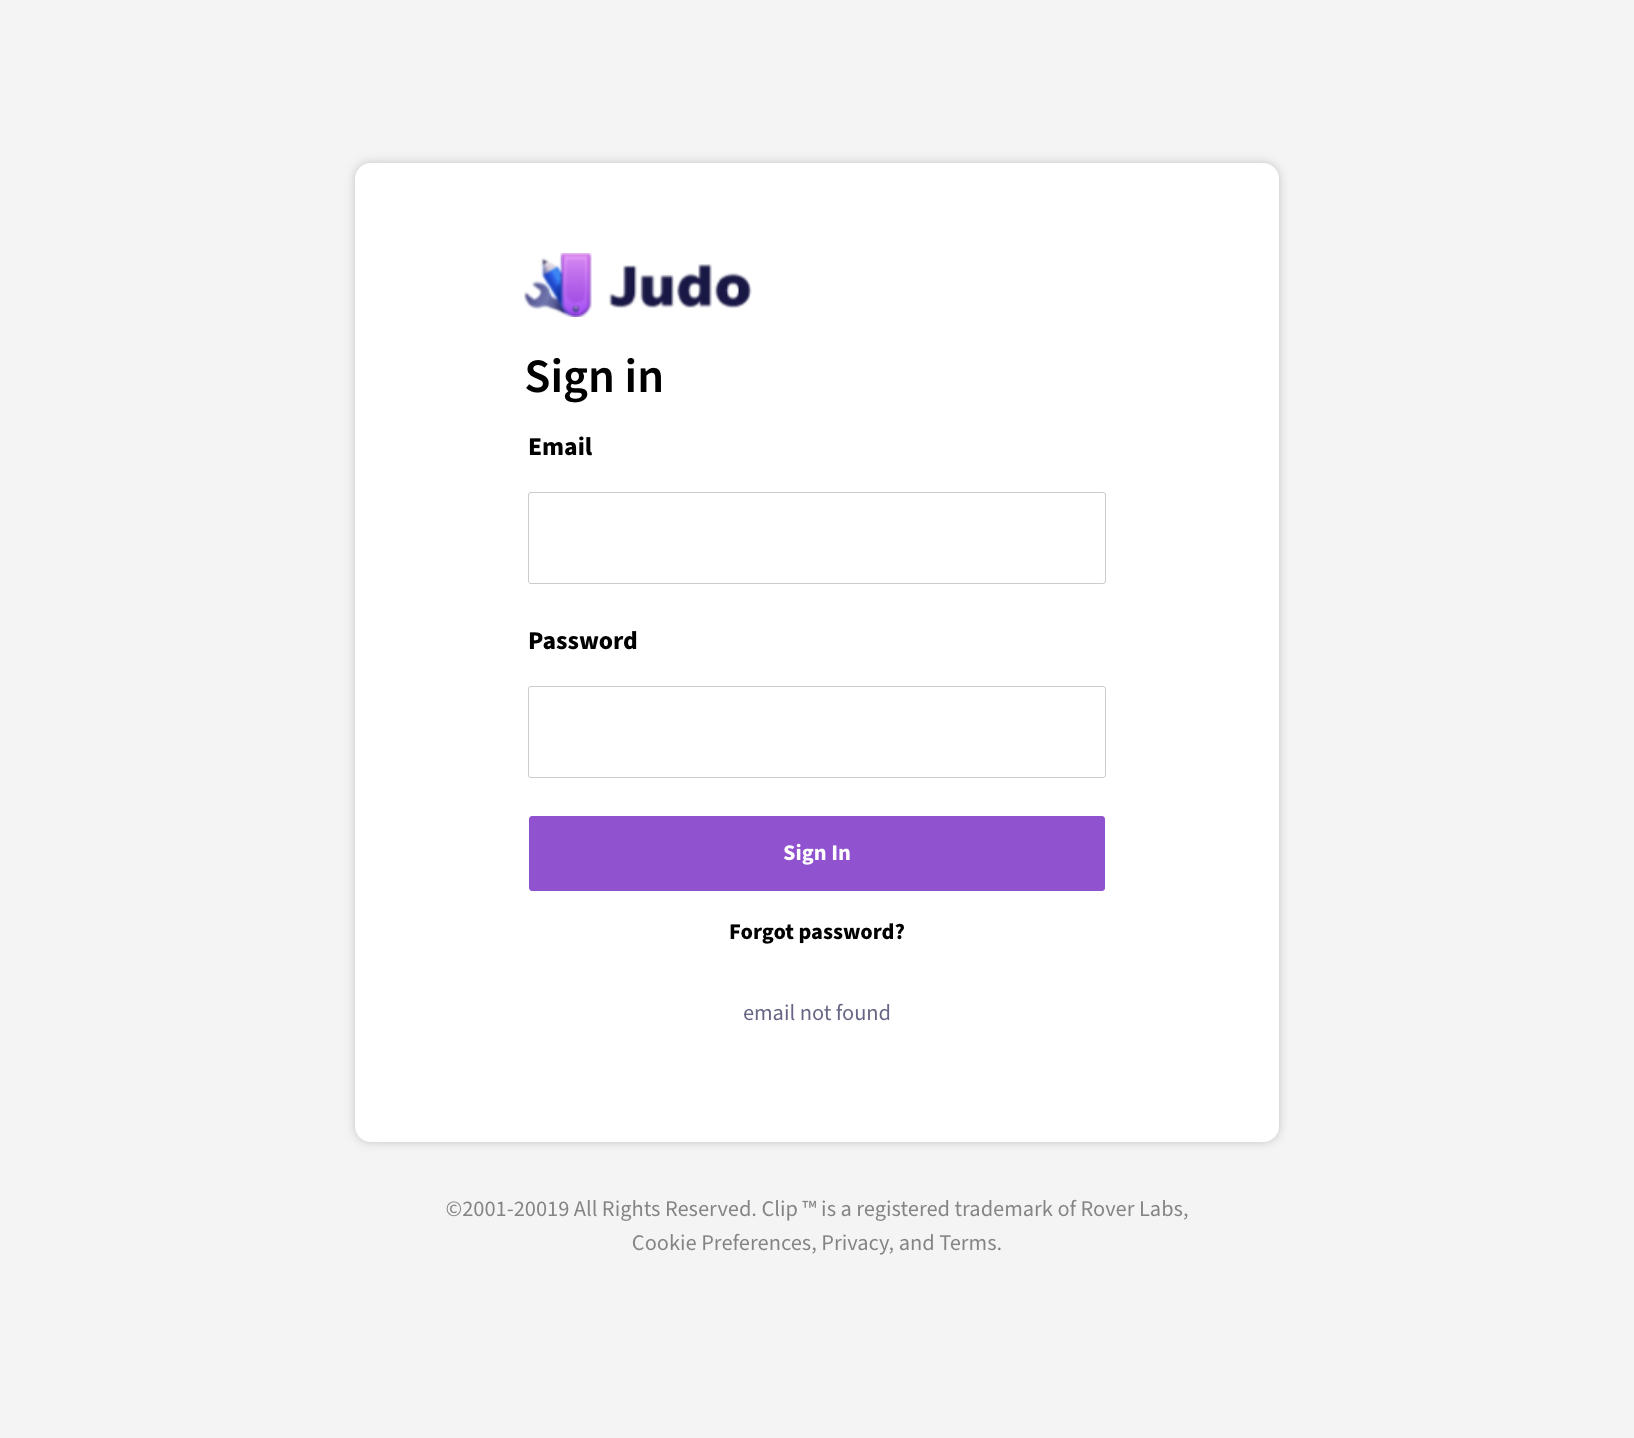
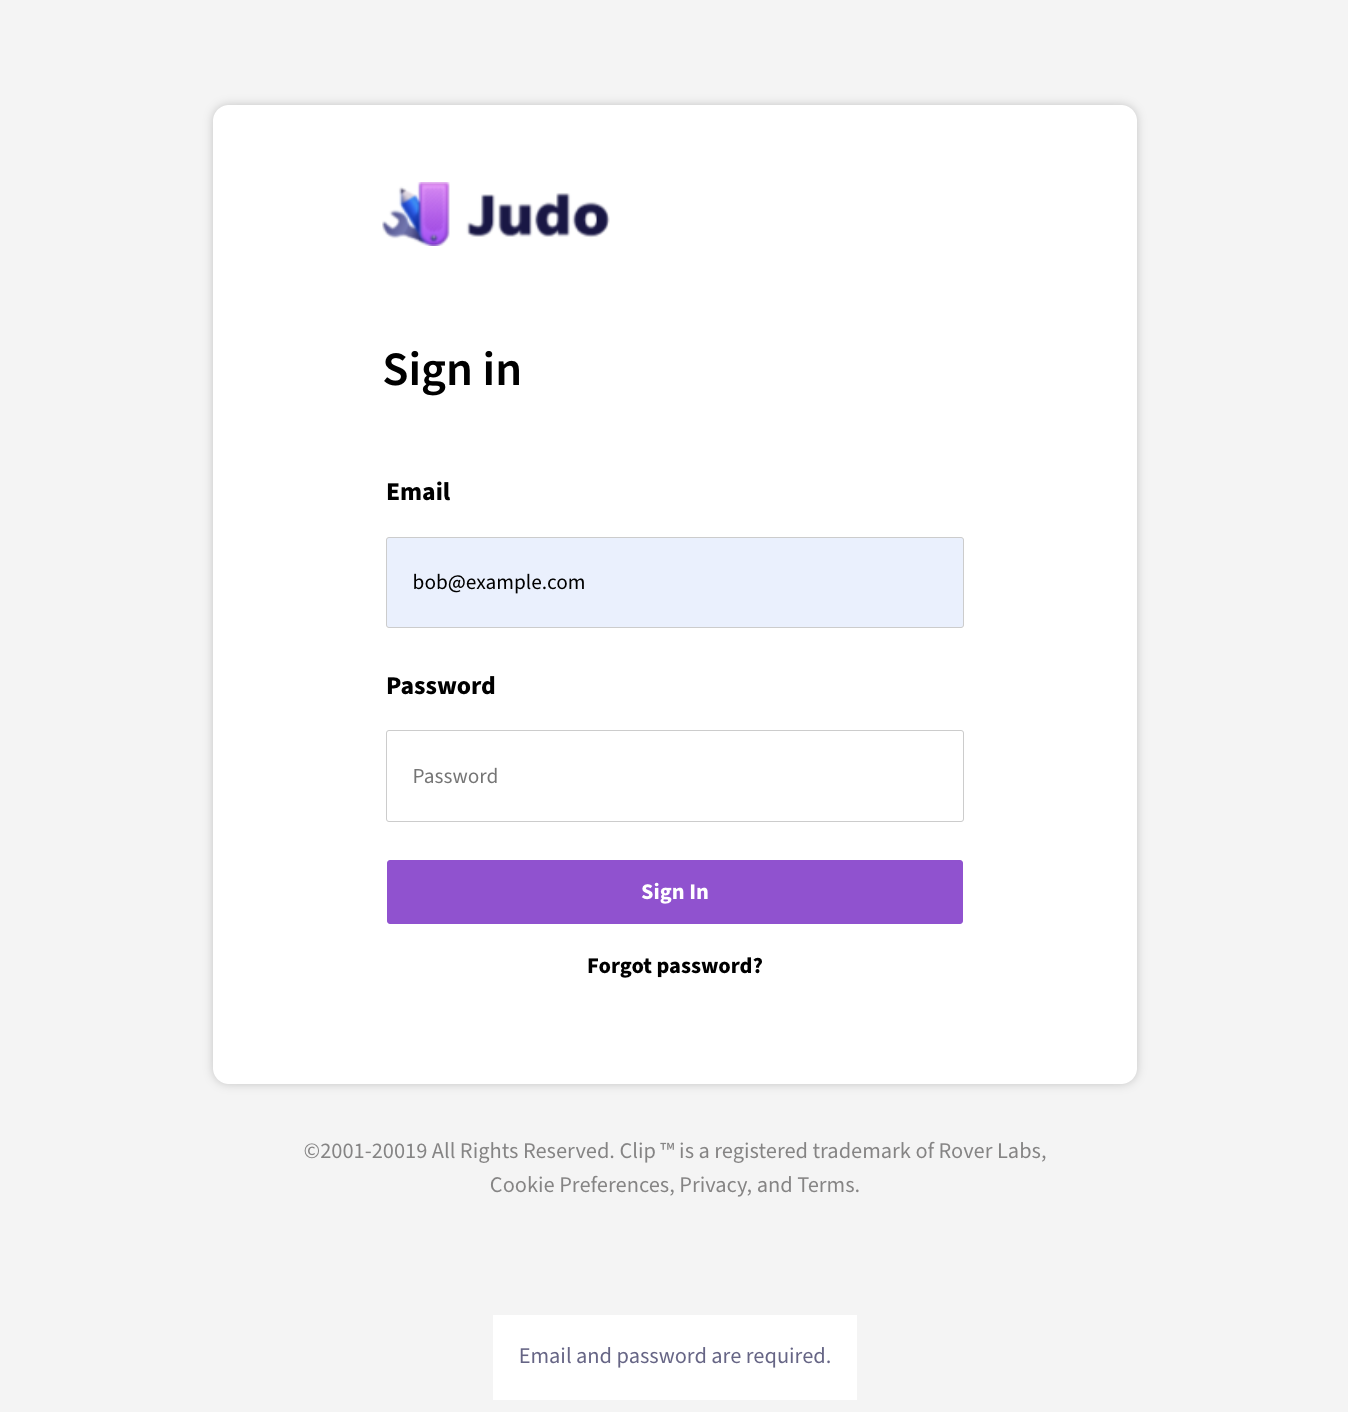
UI changes

diff --git a/app/src/pages/Login/Login.css b/app/src/pages/Login/Login.css
@@ -51,11 +51,21 @@
     font-style: normal;
 }
 
+.error-container {
+    width: 100vw;
+    display: flex;
+    align-items: center;
+    justify-content: center;
+}
 .error {
+    background-color: #fff;
     font-family: 'source-sans-pro', sans-serif;
     font-weight: 400;
     font-style: normal;
     color: #676487;
     font-size: 14px;
     text-align: center;
+    position: absolute;
+    bottom: 0;
+    padding: 16px;
 }

diff --git a/app/src/pages/Products/Products.tsx b/app/src/pages/Products/Products.tsx
@@ -30,7 +30,7 @@ const Products = () => {
             {error ? (
                 <div className="error-container">
                     {errors.map((err, idx) => (
-                        <p className="error" key={idx}>
+                        <p className="product-error" key={idx}>
                             {err.message}
                         </p>
                     ))}

diff --git a/app/src/pages/Products/Products.css b/app/src/pages/Products/Products.css
@@ -41,3 +41,13 @@ p {
 .active {
     color: #9a4ad6;
 }
+
+.product-error {
+    font-family: 'source-sans-pro', sans-serif;
+    font-weight: 400;
+    font-style: normal;
+    color: #676487;
+    font-size: 14px;
+    text-align: center;
+    padding: 16px;
+}
